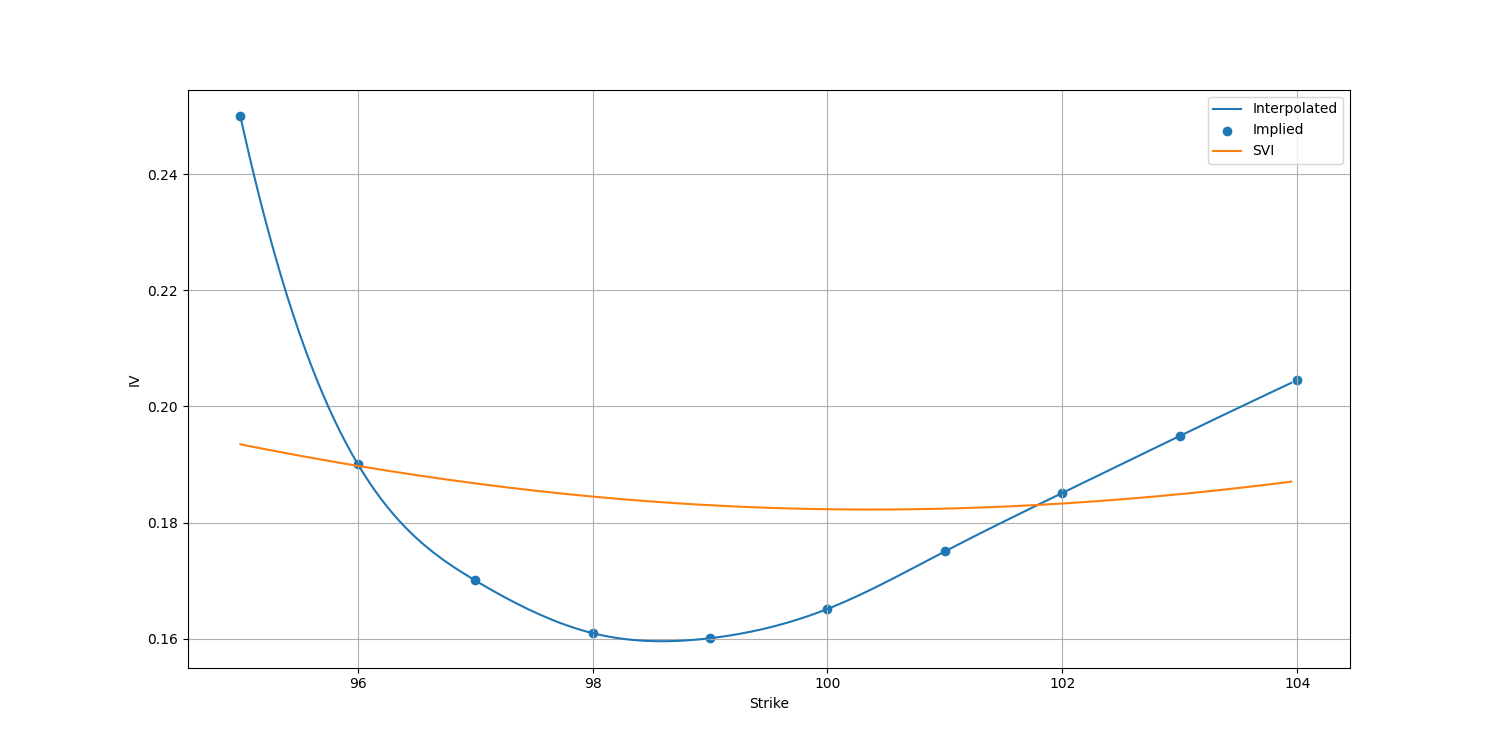
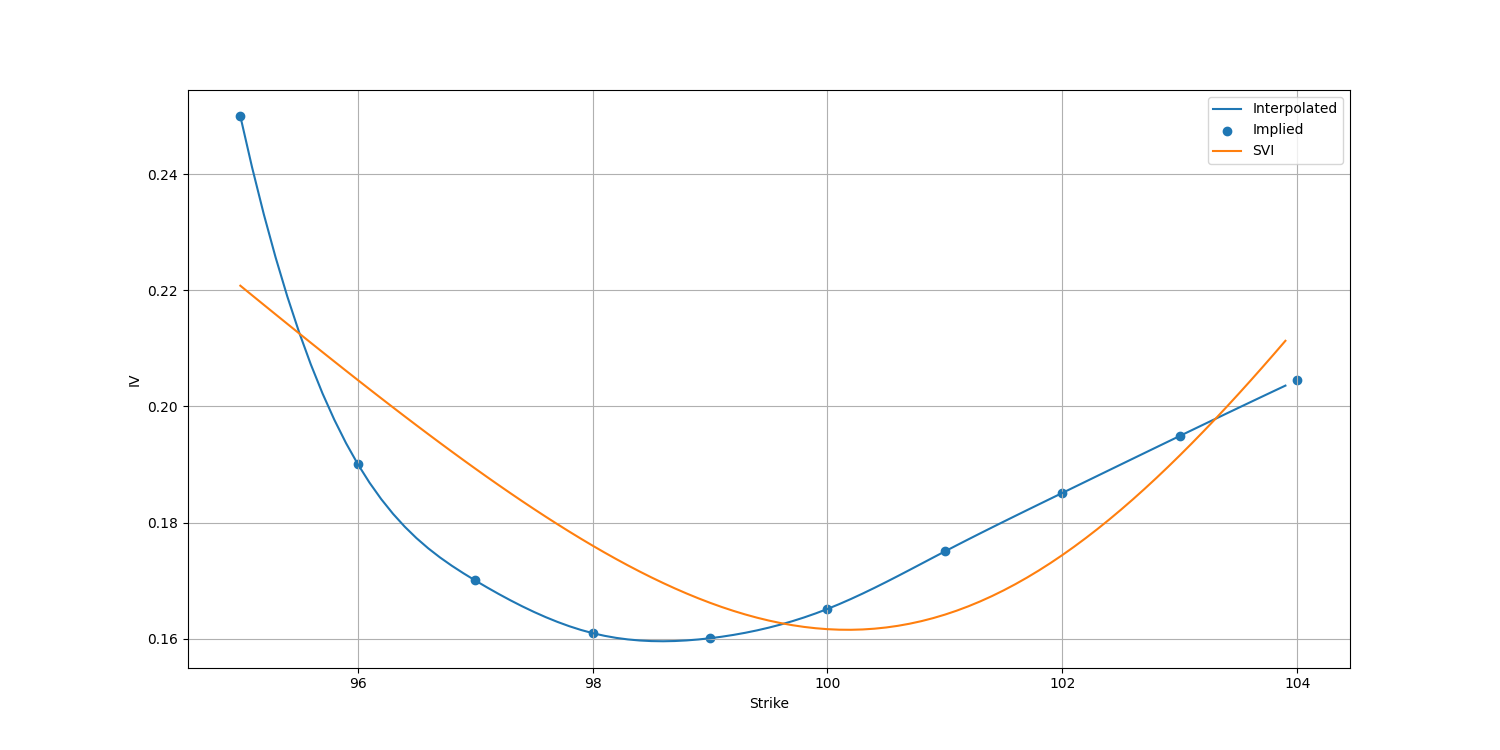
Updated Risk neutral density

diff --git a/project.py b/project.py
@@ -3,14 +3,11 @@ import pandas as pd
 
 from matplotlib import cm
 from scipy.stats import norm
-import scipy.stats as stats
 from matplotlib import pyplot as plt
 from scipy.interpolate import interp1d
 
-import cev
 import svi
 import utils
-import models
 import optimization
 import black_scholes
 
@@ -21,8 +18,8 @@ pd.set_option('display.max_rows', 100)
 pd.set_option('display.max_columns', 300)
 pd.set_option('display.expand_frame_repr', False)
 
-# Set Numpy Seed
-np.random.seed(1)
+# Set Numerical Differential Step
+step = 0.1
 
 # Set Market Options DataFrame
 df_mkt = pd.DataFrame()
@@ -32,27 +29,29 @@ df_mkt["Price (6M)"] = [10.71, 8.28, 6.91, 6.36, 5.29, 5.07, 4.76, 4.47, 4.35, 4
 df_mkt["Price (9M)"] = [11.79, 8.95, 8.07, 7.03, 6.18, 6.04, 5.76, 5.50, 5.50, 5.39]
 df_mkt["Price (12M)"] = [12.40, 9.59, 8.28, 7.40, 6.86, 6.58, 6.52, 6.49, 6.47, 6.46]
 
-# Compute Option's Implied Volatility (IV), Total Variance (TV), Log Forward Moneyness (LFM)
+# Compute Option's Implied Volatility (IV)
 for maturity in [3, 6, 9, 12]:
     df_mkt[f"IV ({maturity}M)"] = df_mkt.apply(
         lambda x: black_scholes.BS_IV_Newton_Raphson(
             MktPrice=x[f"Price ({maturity}M)"], df=1, f=100, k=x["Strike"], t=maturity / 12, OptType="C")[0], axis=1)
 
 # ---------------------------------------- PART 1.1 : RISK NEUTRAL DENSITY ----------------------------------------
-# Calibrate Interpolation Function
+# Calibrate Interpolation Functions
 interp_function = interp1d(x=df_mkt["Strike"], y=df_mkt["IV (12M)"], kind='cubic')
 my_interp_function = utils.Interp(x_list=df_mkt["Strike"], y_list=df_mkt["IV (12M)"])
 
-# Create Interpolated Risk Neutral Density Dataframe
+# Create Interpolated Risk Neutral Density Dataframe (12M)
 df_density = pd.DataFrame()
-df_density["Strike"] = np.arange(min(df_mkt["Strike"]), max(df_mkt["Strike"]), 0.05)
+df_density["Strike"] = np.arange(min(df_mkt["Strike"]), max(df_mkt["Strike"]), step)
 df_density["IV"] = df_density.apply(lambda x: interp_function(x["Strike"]), axis=1)
 df_density["IV (2D)"] = df_density.apply(lambda x: my_interp_function.get_image(x["Strike"]), axis=1)
 df_density["Price"] = df_density.apply(
     lambda x: black_scholes.BS_Price(df=1, f=100, k=x["Strike"], t=1, v=x["IV"], OptType="C"), axis=1)
-df_density["Gamma Strike"] = (df_density["Price"].shift(1) - 2 * df_density["Price"] + df_density["Price"].shift(-1)) \
-                             / pow(0.01, 2)
-df_density["Density"] = df_density["Gamma Strike"] / df_density["Gamma Strike"].sum()
+
+# Compute Breeden-Litzenberger Density
+df_density["Density"] = (df_density["Price"].shift(1) - 2 * df_density["Price"] + df_density["Price"].shift(-1)) \
+                             / pow(step, 2)
+df_density["Density Norm"] = df_density["Density"] / df_density["Density"].sum()
 
 # Plot & Save Graph: Interpolated Volatilities
 fig1, axs1 = plt.subplots(nrows=1, ncols=1, figsize=(15, 7.5))
@@ -73,13 +72,13 @@ axs2.set_xlabel("Strike")
 axs2.set_ylabel("Density")
 fig2.savefig('results/1.2_Interpolated_Density.png')
 
-# Compute Total Variance (TV) & Log Forward Moneyness (LFM)
-df_density["TV"] = df_density["IV"] * df_density["IV"] * 1
-df_density["LFM"] = df_density.apply(lambda x: np.log(x["Strike"] / 100), axis=1)
-
 # Calibrate SVI Curve
-SVI_params = svi.SVI_calibration(k_list=df_density["LFM"], mktTotVar_list=df_density["TV"],
-                                 weights_list=df_density["IV"] * df_density["IV"], use_durrleman_cond=True)
+implied_vol = df_mkt["IV (12M)"].to_numpy()
+total_variance = np.power(implied_vol, 2)
+log_forward_moneyness = np.log(df_mkt["Strike"] / 100)
+weights = [1 for _ in implied_vol]
+SVI_params = svi.SVI_calibration(k_list=log_forward_moneyness, mktTotVar_list=total_variance, weights_list=weights,
+                                 use_durrleman_cond=False)
 
 # Compute SVI Volatilities
 df_density["IV (SVI)"] = df_density.apply(
@@ -97,44 +96,60 @@ axs3.set_ylabel("IV")
 axs3.legend()
 fig3.savefig('results/1.3_SVI_Calibration.png')
 
-# Create Interpolated/Extrapolated Risk Neutral Density Dataframe (12M)
-df_density_bis = pd.DataFrame()
-df_density_bis["Strike"] = np.arange(65, 135, 0.1)
-df_density_bis["IV (SVI)"] = df_density_bis.apply(
+# Set Custom Density Dataframe
+df_custom_density = pd.DataFrame()
+df_custom_density["Strike"] = np.arange(95, 105, step)
+df_custom_density["IV"] = df_custom_density.apply(
     lambda x: np.sqrt(svi.SVI(k=np.log(x["Strike"] / 100), a_=SVI_params["a_"], b_=SVI_params["b_"],
                               rho_=SVI_params["rho_"], m_=SVI_params["m_"], sigma_=SVI_params["sigma_"])), axis=1)
+df_custom_density["Price"] = df_custom_density.apply(
+    lambda x: black_scholes.BS_Price(df=1, f=100, k=x["Strike"], t=1, v=x["IV"], OptType="C"), axis=1)
 
-# Compute Option Price Continuum
-df_density_bis["Price (SVI)"] = df_density_bis.apply(
-    lambda x: black_scholes.BS_Price(df=1, f=100, k=x["Strike"], t=1, v=x["IV (SVI)"], OptType="C"), axis=1)
+# Compute Breeden-Litzenberger Density
+df_custom_density["Density"] = (df_custom_density["Price"].shift(1) - 2 * df_custom_density["Price"] + df_custom_density["Price"].shift(-1)) \
+                             / pow(step, 2)
 
-# Compute SVI Breeden-Litzenberger Density
-df_density_bis["Gamma Strike (SVI)"] = (df_density_bis["Price (SVI)"].shift(1) - 2 * df_density_bis["Price (SVI)"] +
-                                        df_density_bis["Price (SVI)"].shift(-1)) / pow(0.01, 2)
-df_density_bis["Density (SVI)"] = df_density_bis["Gamma Strike (SVI)"] / df_density_bis["Gamma Strike (SVI)"].sum()
+
+def normal_pdf(x, mu, sigma):
+    return np.exp(-0.5 * np.power((x - mu) / sigma, 2)) / (sigma * np.sqrt(2 * np.pi))
+
 
 # Gaussian Density Comparison
-df_density_bis["Gaussian Distrib"] = norm.pdf(df_density_bis["Strike"], 99.8, 6.9)
-df_density_bis["Density (Gaussian)"] = df_density_bis["Gaussian Distrib"] / df_density_bis["Gaussian Distrib"].sum()
+mu = 100.94
+sigma = 1.15
+right_mu = 102.1
+right_sigma = 1.7
+left_mu = 99.5
+left_sigma = 1.9
+df_custom_density["Density (Gaussian)"] = df_custom_density["Strike"].apply(lambda x: normal_pdf(x, mu, sigma))
+df_custom_density["Right Density (Gaussian)"] = df_custom_density["Strike"].apply(lambda x: normal_pdf(x, right_mu, right_sigma))
+df_custom_density["Left Density (Gaussian)"] = df_custom_density["Strike"].apply(lambda x: normal_pdf(x, left_mu, left_sigma))
+
+# Compute Normalized Densities
+for density in ["Density", "Density (Gaussian)", "Right Density (Gaussian)", "Left Density (Gaussian)"]:
+    df_custom_density[f"Norm. {density}"] = df_custom_density[density] / df_custom_density[density].sum()
 
 # Plot & Save Graph: Extrapolated Density
 fig4, axs4 = plt.subplots(nrows=1, ncols=1, figsize=(15, 7.5))
-axs4.plot(df_density_bis["Strike"], df_density_bis["Density (SVI)"], label="SVI")
-axs4.plot(df_density_bis["Strike"], df_density_bis["Density (Gaussian)"], c="g", label="Gaussian")
+axs4.plot(df_custom_density["Strike"], df_custom_density["Density"], label="Custom")
+axs4.plot(df_custom_density["Strike"], df_custom_density["Density (Gaussian)"], "--", label="Centered Gaussian")
+axs4.plot(df_custom_density["Strike"], df_custom_density["Right Density (Gaussian)"], "--", label="Right Gaussian")
+axs4.plot(df_custom_density["Strike"], df_custom_density["Left Density (Gaussian)"], "--", label="Left Gaussian")
 axs4.grid()
 axs4.set_xlabel("Strike")
 axs4.set_ylabel("Density")
 axs4.legend()
-fig4.savefig('results/1.4_SVI_Density.png')
+fig4.savefig('results/1.4_Custom_Density.png')
+
 
 # ------------------------------------- PART 1.2 : METROPOLIS-HASTINGS ALGORITHM -------------------------------------
 # Set PI Function Values
-pi_x = df_density_bis["Strike"].values[1:-1]
-pi_y = df_density_bis["Density (SVI)"].values[1:-1]
+pi_x = df_custom_density["Strike"].values[1:-1]
+pi_y = df_custom_density["Density"].values[1:-1]
 
 
 # Target Distribution Function
-def target_distrib(x, pi_x, pi_y, mu, sigma):
+def target_distrib(x, pi_x, pi_y):
     output = 0
     # If x in pi_x
     if pi_x[0] <= x <= pi_x[-1]:
@@ -143,36 +158,58 @@ def target_distrib(x, pi_x, pi_y, mu, sigma):
             if pi_x[i-1] < x <= pi_x[i]:
                 output = (pi_y[i-1] + pi_y[i]) / 2
                 break
-    # Else (tails)
+    # If x in right tail
+    elif x > pi_x[-1]:
+        # Return right gaussian
+        output = normal_pdf(x, right_mu, right_sigma)
+    # If x in left tail
     else:
-        # Return fitted gaussian
-        numerator = np.exp((-(x - mu) ** 2) / (2 * sigma ** 2))
-        denominator = sigma * np.sqrt(2 * np.pi)
-        output = numerator / denominator
+        # Return left gaussian
+        output = normal_pdf(x, left_mu, left_sigma)
     return output
 
 
 # Algorithm
 N = 100000
-x = np.arange(N, dtype=float)
-x[0] = 100
+rdm_x = np.arange(N, dtype=float)
+rdm_x[0] = 100
 counter = 0
 for i in range(0, N - 1):
-    x_next = np.random.normal(x[i], 1)
-    if np.random.random_sample() < min(1, target_distrib(x_next, pi_x=pi_x, pi_y=pi_y, mu=99.8, sigma=6.9) /
-                                          target_distrib(x[i], pi_x=pi_x, pi_y=pi_y, mu=99.8, sigma=6.9)):
-        x[i + 1] = x_next
+    x_next = np.random.normal(rdm_x[i], 1)
+    if np.random.random_sample() < min(1, target_distrib(x_next, pi_x=pi_x, pi_y=pi_y) /
+                                          target_distrib(rdm_x[i], pi_x=pi_x, pi_y=pi_y)):
+        rdm_x[i + 1] = x_next
         counter = counter + 1
     else:
-        x[i + 1] = x[i]
+        rdm_x[i + 1] = rdm_x[i]
 
 # Display Acceptance Ration
 print(f"\nMetropolis-Hastings Acceptance Ratio: {counter / float(N)}")
 
+# Compute SVI & Density Prices
+df_metropolis = pd.DataFrame()
+df_metropolis["Strike"] = np.arange(95, 105, 1)
+df_metropolis["IV"] = df_metropolis.apply(
+    lambda x: np.sqrt(svi.SVI(k=np.log(x["Strike"] / 100), a_=SVI_params["a_"], b_=SVI_params["b_"],
+                              rho_=SVI_params["rho_"], m_=SVI_params["m_"], sigma_=SVI_params["sigma_"])), axis=1)
+df_metropolis["Price (SVI)"] = df_metropolis.apply(
+    lambda x: black_scholes.BS_Price(df=1, f=100, k=x["Strike"], t=1, v=x["IV"], OptType="C"), axis=1)
+
+df_metropolis["Price (Density)"] = df_metropolis.apply(
+    lambda x: np.mean(np.maximum(rdm_x - x["Strike"], 0)), axis=1)
+print(f"\n{df_metropolis}")
+
 # Plot & Save Graph: Density of x
+data_entries, bins = np.histogram(rdm_x, bins=80)
+binscenters = np.array([0.5 * (bins[i] + bins[i + 1]) for i in range(len(bins) - 1)])
+data_entries_norm = np.array(data_entries) / sum(data_entries)
+target_distrib = [target_distrib(x, pi_x=pi_x, pi_y=pi_y) for x in binscenters]
+target_distrib = target_distrib / sum(target_distrib)
 fig5, axs5 = plt.subplots(nrows=1, ncols=1, figsize=(15, 7.5))
-axs5.hist(x, density=True, bins=50, color='blue', label="Density")
+axs5.plot(binscenters, target_distrib, label="Target")
+axs5.plot(binscenters, data_entries_norm, label="Simulated")
 axs5.grid()
+axs5.legend()
 axs5.set_xlabel("Strike")
 axs5.set_ylabel("Density")
 fig5.savefig('results/1.5_Metropolis_Density.png')
@@ -204,7 +241,7 @@ print(f" - Price: {BS_price}")
 # Create Interpolated Local volatilities Dataframe
 my_interp_function = utils.Interp(x_list=df_local_vol["Strike"], y_list=df_local_vol["IV (8M)"])
 df_local_vol_bis = pd.DataFrame()
-df_local_vol_bis["Strike"] = np.arange(min(df_local_vol["Strike"]), max(df_local_vol["Strike"]), 0.05)
+df_local_vol_bis["Strike"] = np.arange(min(df_local_vol["Strike"]), max(df_local_vol["Strike"]), step)
 df_local_vol_bis["IV (2D)"] = df_local_vol_bis.apply(lambda x: my_interp_function.get_image(x=x["Strike"]), axis=1)
 df_local_vol_bis["IV"] = df_local_vol_bis.apply(lambda x: interp_function(x["Strike"]), axis=1)
 
